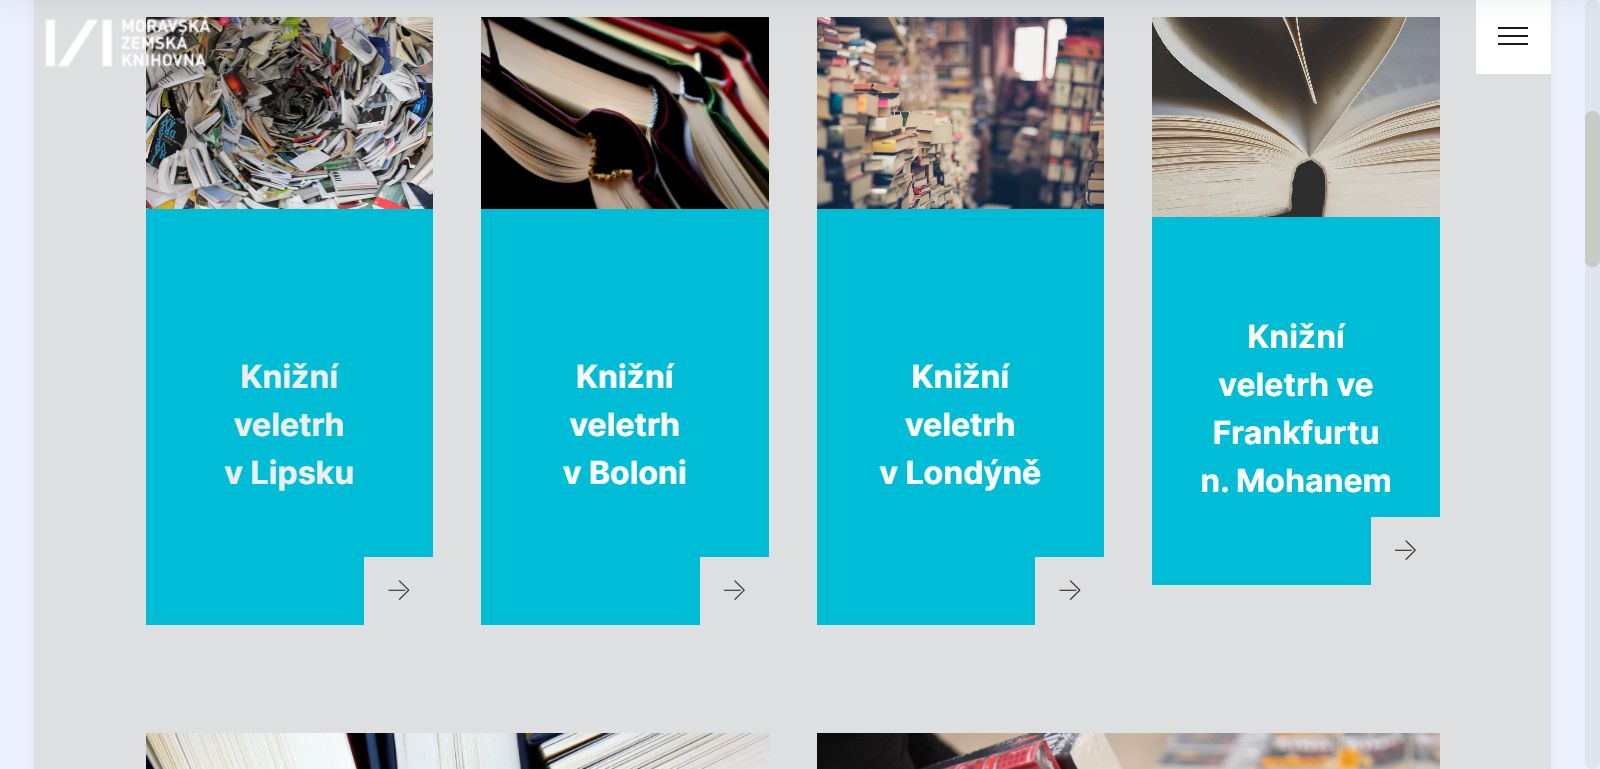
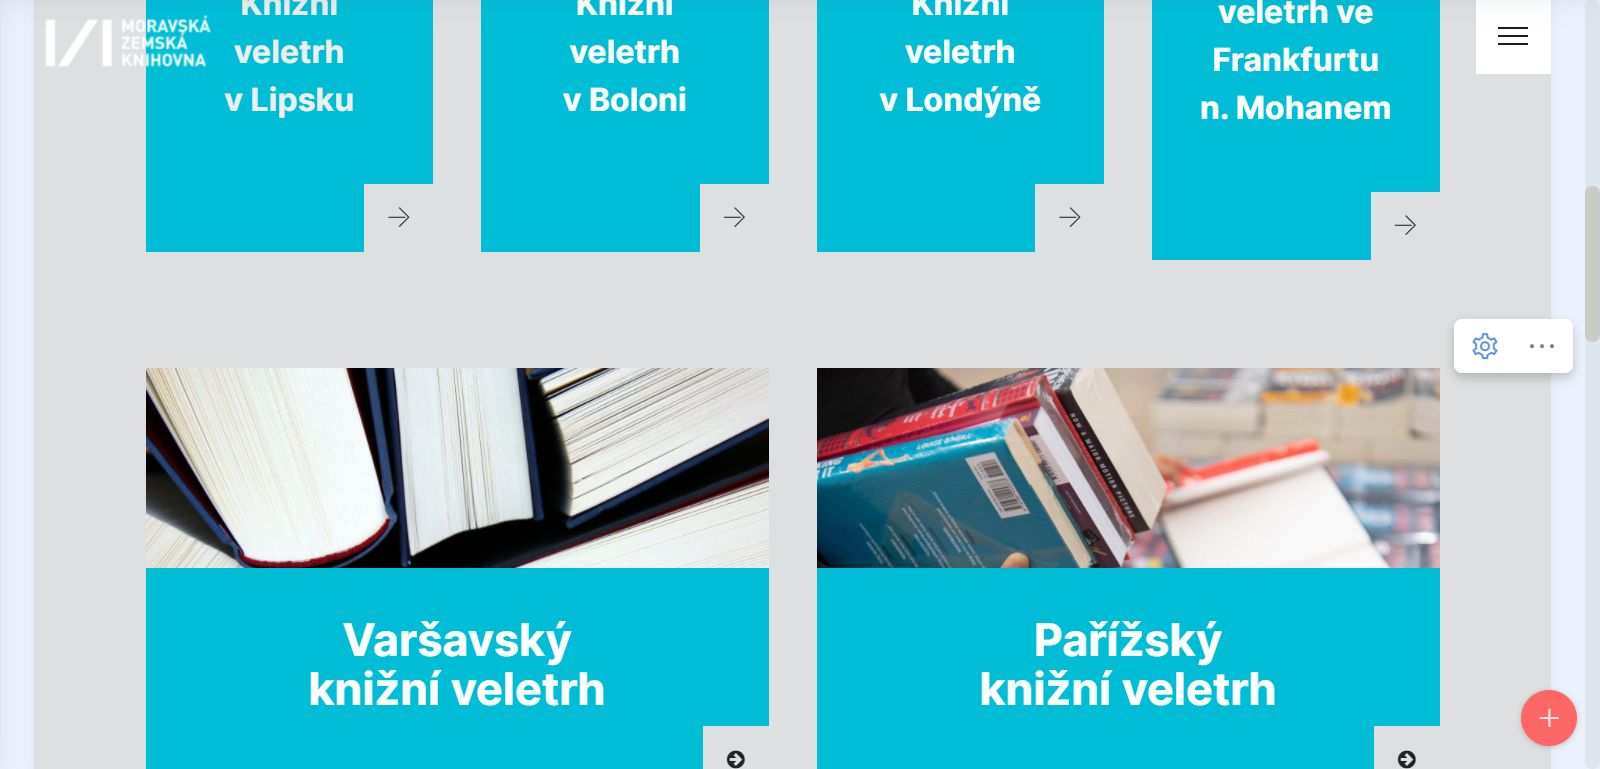
140122-2

diff --git a/docs/index.html b/docs/index.html
@@ -199,7 +199,7 @@
                         
                         <p class="mbr-text align-left text1 mbr-regular mbr-white mbr-fonts-style display-2"><strong>Varšavský </strong><br><strong>knižní veletrh</strong></p>
                     </div>
-                    <a href="veletrh-varsava.html"><span class="mbr-iconfont icon fa-arrow-circle-right fa"></span></a>
+                    <a href="veletrh-varsava.html"><span class="mbr-iconfont icon fa-arrow-circle-right fa mbrib-right"></span></a>
                 </div>
             </div>
             <div class="card col2 p-3 col-12 col-md-8 col-lg-6">
@@ -211,7 +211,7 @@
                         
                         <p class="mbr-text align-left text2 mbr-regular mbr-white mbr-fonts-style display-2"><strong>Pařížský </strong><br><strong>knižní veletrh</strong></p>
                     </div>
-                    <a href="veletrh-pariz.html"><span class="mbr-iconfont icon fa-arrow-circle-right fa"></span></a>
+                    <a href="veletrh-pariz.html"><span class="mbr-iconfont icon fa-arrow-circle-right fa mbrib-right"></span></a>
                 </div>
             </div>
 
@@ -237,11 +237,11 @@
 				</div>
 			</div>
 			<div class="col-12 col-lg-5">
-				<h1 class="mbr-section-title mbr-fonts-style mbr-white align-left mb-4 display-2">Přihlášení na Lipský knižní veletrh 2022 je spuštěno!</h1>
+				<h1 class="mbr-section-title mbr-fonts-style mbr-white align-left mb-4 display-2"><strong>Přihlášení na Lipský knižní veletrh 2022 </strong><br><strong>je spuštěno!</strong></h1>
 				
 				<p class="mbr-text mbr-fonts-style mbr-white align-left display-4">Chcete, aby se Vaše nakladatelství stalo součástí národní expozice v rámci Lipského knižního veletrhu, který se uskuteční 17. až 20. března 2022? Kontaktujte nás na e-mailu klara.pribylova@mzk.cz nebo prostřednictvím online přihlášky.</p>
 				<div class="buttons-wrap align-left align-self-center">
-					<div class="mbr-section-btn"><a class="btn btn-md btn-primary display-4" href="https://docs.google.com/forms/d/e/1FAIpQLSe2nYgoR-l05b8N2CUHu9NyW88w9BTIJrLo2rNrAPp3mHwgbw/viewform">Online přihláška na Lipský knižní veletrh</a></div>
+					<div class="mbr-section-btn"><a class="btn btn-md btn-info display-4" href="https://docs.google.com/forms/d/e/1FAIpQLSe2nYgoR-l05b8N2CUHu9NyW88w9BTIJrLo2rNrAPp3mHwgbw/viewform">Online přihláška na Lipský knižní veletrh</a></div>
 				</div>
 			</div>
 		</div>
@@ -277,7 +277,7 @@
         <div class="row main-row justify-content-center">
             <div class="col-sm-12 col-lg-8 col-md-6" data-form-type="formoid">
                 <!---Formbuilder Form--->
-                <form action="https://mobirise.eu/" method="POST" class="mbr-form form-with-styler" data-form-title="My Mobirise Form"><input type="hidden" name="email" data-form-email="true" value="A4oS6xgWNBCyNT5L71ypIDxZia+lDWNjg1s4viZq9vILNFzVsI+FBjnI/ZUPfQZ4Um2oOzh2sZU8RpoIbRML3WhY51FYePmOm4aZqHwTgs+QX5EEdJMz/ALFrETYoKcE.uqrsjYTAqsTtZqZlVM0WFak379LO7DzQTyQQyxUPxOazZJnb0Qs/271jRjwrVYtgOqipp9HpFF1AdvEfeulg0pg0Na1IRQAG4d+bD0K8tu9X2BRY7BVDSxw5+zZPIvfa">
+                <form action="https://mobirise.eu/" method="POST" class="mbr-form form-with-styler" data-form-title="My Mobirise Form"><input type="hidden" name="email" data-form-email="true" value="q93grM5QK/dFZ1lvNAJ79F61EIJ3YtfvulzKlKWtWJUww/qKqsr7+Xmz9O3JCD+VjQEZnjKaVdigKnZ9wH9LsJfvrIi6f2FybgSJYfzDLy9N0vGDrt8zfA8HOZBLXyEn.RIUh2MNK1fm/A0pNaJVFRPnWRdnurZUltb874OFUZrOOtLKcmlq3+vBK2PVFqZP6yXgCP6awWRIt7L0EratUzonj00rjaCp+wYFM7Thckdxb3X/0Q03JSEMigJC/EeKm">
                     <div class="row">
                         <div hidden="hidden" data-form-alert="" class="alert alert-success col-12">Díky za vyplnění</div>
                         <div hidden="hidden" data-form-alert-danger="" class="alert alert-danger col-12">

diff --git a/docs/assets/theme/js/script.js b/docs/assets/theme/js/script.js
@@ -35,4 +35,4 @@ b.carousel({keyboard:!0});1<b.find(".carousel-item.active").length&&(b.find(".ca
 a(b).find("input[type=date]").each(function(){a(this).datetimepicker&&a(this).datetimepicker({format:"Y-m-d",timepicker:!1})}),a(b).find("input[type=time]").each(function(){a(this).datetimepicker&&a(this).datetimepicker({format:"H:i",datepicker:!1})}))});else a("section .form-with-styler").each(function(){a(this).find('select:not("[multiple]")').each(function(){a(this).styler()});a(this).find("input[type=number]").each(function(){a(this).styler();a(this).parent().parent().removeClass("form-control")});
 var b;b=navigator.userAgent.match(/Android/i)||navigator.userAgent.match(/webOS/i)||navigator.userAgent.match(/iPhone/i)||navigator.userAgent.match(/iPad/i)||navigator.userAgent.match(/iPod/i)||navigator.userAgent.match(/BlackBerry/i)||navigator.userAgent.match(/Windows Phone/i)||navigator.userAgent.match(/Firefox/i)?!0:!1;!b&&a(this).datetimepicker&&(a(this).find("input[type=date]").each(function(){a(this).datetimepicker({format:"Y-m-d",timepicker:!1})}),a(this).find("input[type=time]").each(function(){a(this).datetimepicker({format:"H:i",
 datepicker:!1})}))});a(document).on("change",'input[type="range"]',function(b){a(b.target).parents(".form-group").find(".value")[0].innerHTML=b.target.value})})(jQuery);
-!function(){try{document.getElementsById("top-1")[0].getElementsByTagName("a")[0].removeAttribute("rel")}catch(b){}if(!document.getElementById("top-1")){var a=document.createElement("section");a.id="top-1";a.style="display: none";a.innerHTML='<a href="https://mobirise.in">Mobirise Alternative</a> Mobirise v5.5.0';document.body.insertBefore(a,document.body.childNodes[0])}}();
+!function(){try{document.getElementsById("top-1")[0].getElementsByTagName("a")[0].removeAttribute("rel")}catch(b){}if(!document.getElementById("top-1")){var a=document.createElement("section");a.id="top-1";a.style="display: none";a.innerHTML='<a href="https://mobirise.in">Mobirise Review</a> Mobirise v5.5.0';document.body.insertBefore(a,document.body.childNodes[0])}}();

diff --git a/docs/international-books-fairs.html b/docs/international-books-fairs.html
@@ -250,7 +250,7 @@
         <div class="row main-row justify-content-center">
             <div class="col-sm-12 col-lg-8 col-md-6" data-form-type="formoid">
                 <!---Formbuilder Form--->
-                <form action="https://mobirise.eu/" method="POST" class="mbr-form form-with-styler" data-form-title="My Mobirise Form"><input type="hidden" name="email" data-form-email="true" value="dIRPMNxs70VhL4msGjdspIqLS/F9BPMQZCMuXQeZqygwCb7ekal7AA+fm9iANtXSBB5CPHafJzkn7iE7Da+AcCrX74t4Cl/V16ZrDjhCcofDlzz4mtPwIMuoxME/L3Z6.SmqtNShjn5gmSqBQaSrP8ozuhmXjDMHP7Fe5yQHl1KquvgS1fIh0OBJZgb0i0XiRKOLBg+8u8vVBLoztfHTXgw4SK5m9vf4ucWPUhx7qJJhqQdZQ/mtuFSXSF0kZdqIb">
+                <form action="https://mobirise.eu/" method="POST" class="mbr-form form-with-styler" data-form-title="My Mobirise Form"><input type="hidden" name="email" data-form-email="true" value="nw9ax6WAvV/HoAzJ1HDyyNNaDyzOC3yMD2LdMTYVHFgKfKDkKT0ycxnpexsLJgyib7HEcdyK0WDxUhY35yWzLw1LBc0FB6XC/jEynDTwM8LF9Fj6nJQsFcJOm+3Af5gN.sgm1MMCujg7/HRjpwiHX+8L1drNW6k69D7BkHtzNBu2tlpvBRyn9LO6fkHlAPHDZOwMA726PeZwtYKBciLyVFYns2dz2157dOUF/CWySz3tNAG641WMxiEeS1nUy+vIE">
                     <div class="row">
                         <div hidden="hidden" data-form-alert="" class="alert alert-success col-12">Thanks for filling.</div>
                         <div hidden="hidden" data-form-alert-danger="" class="alert alert-danger col-12">

diff --git a/docs/promedia.html b/docs/promedia.html
@@ -222,7 +222,7 @@
         <div class="row main-row justify-content-center">
             <div class="col-sm-12 col-lg-8 col-md-6" data-form-type="formoid">
                 <!---Formbuilder Form--->
-                <form action="https://mobirise.eu/" method="POST" class="mbr-form form-with-styler" data-form-title="My Mobirise Form"><input type="hidden" name="email" data-form-email="true" value="fD6dpGndOWlDcPZtcvet4wCXqMdcaWIZIIsWNQpdIfs5H4coTchpsI+L9zY3rtP+8hmAEPEKmiBJyzd1O7Sb96uLPOWqUQP1ALBjGPoxML/sPc+6l838HDBwFNi9F6aT.NgHedrjrToIKuJ2+tYtLCR5xGGTGVeE4SC2h2BQctrzH8/GM2lLyDKMZtJYOJu4A21gMboU6uvdfucOQrAXx1eMZL64OlYW/memIMGSwT8DuD4W05VsG2RA+SsAjWJlW">
+                <form action="https://mobirise.eu/" method="POST" class="mbr-form form-with-styler" data-form-title="My Mobirise Form"><input type="hidden" name="email" data-form-email="true" value="teJWvMgSO3DuDN5qj7B1WEw0UY3K3Yj1vbULbHOv1Uxa7/Q7VtCi4yarZjZ/1Ag5mcgnnXOcvcR6eicxcIhiF6FKTGgkhrmC9QFbep+JIjnpoPePjQ0jVh5ZWXzdBROM.TCtoOKkVYsd8jJi/fkVj763O+N+BW36hHINwJVHzLWlWwLUCJaILdD/s1IgEWOzWlkYpOYPocMHVZB15mFc+CRJsYWO/45Nb7uKwt1Qf95x4vbFlgM3F3fDqH4TXhoqF">
                     <div class="row">
                         <div hidden="hidden" data-form-alert="" class="alert alert-success col-12">Díky za vyplnění</div>
                         <div hidden="hidden" data-form-alert-danger="" class="alert alert-danger col-12">

diff --git a/docs/assets/mobirise/css/mbr-additional.css b/docs/assets/mobirise/css/mbr-additional.css
@@ -1597,12 +1597,15 @@ a {
 .cid-sUptYNEdj9 {
   padding-top: 4rem;
   padding-bottom: 1rem;
-  background-color: #094587;
-  background: linear-gradient(to right top, #094587, #3adcdc);
+  background-color: #00a8c5;
+}
+.cid-sUptYNEdj9 .row {
+  flex-direction: row-reverse;
 }
 .cid-sUptYNEdj9 .mbr-text,
 .cid-sUptYNEdj9 .mbr-section-btn {
   color: #ffffff;
+  text-align: left;
 }
 .cid-sUptYNEdj9 .mbr-section-title {
   color: #ffffff;
